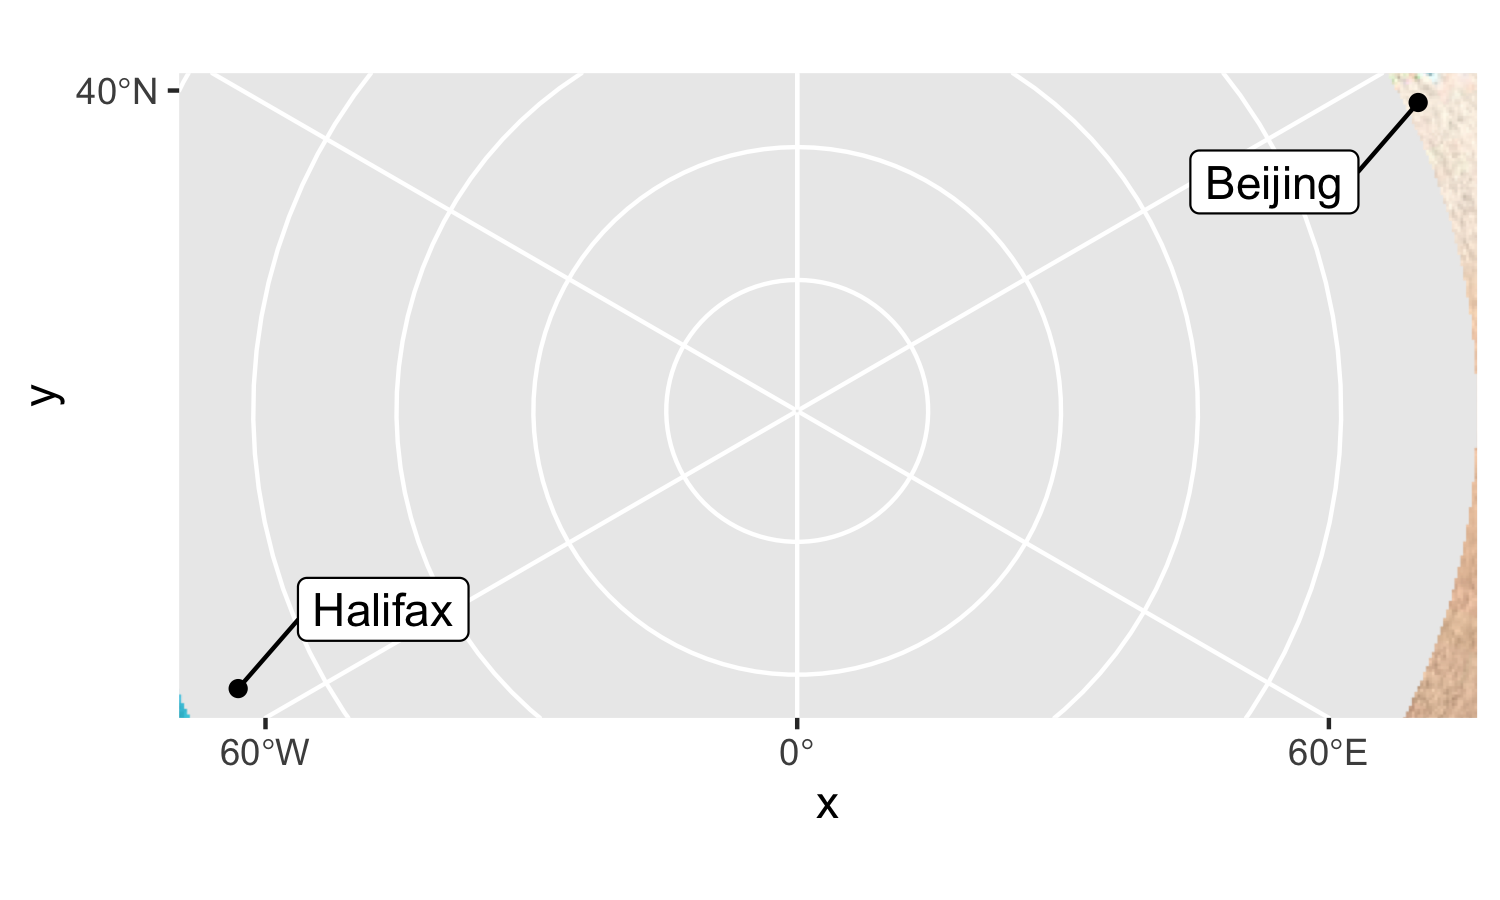
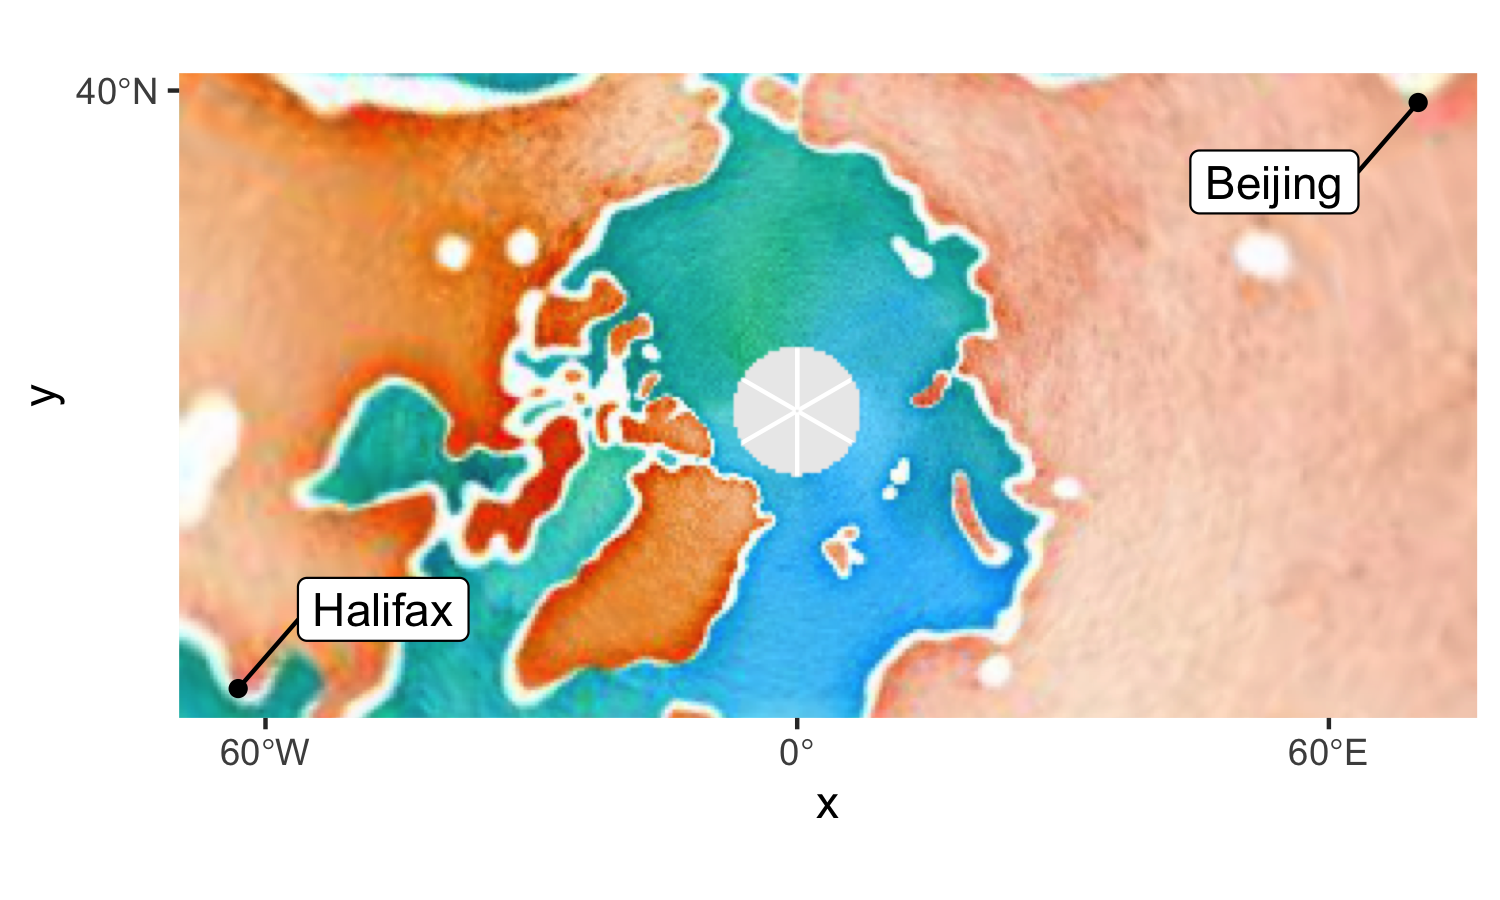
Built site for ggspatial: 1.1.3.9000@4a965f1

diff --git a/dev/articles/ggspatial.html b/dev/articles/ggspatial.html
@@ -157,19 +157,6 @@
   <span class="fu"><a href="https://ggplot2.tidyverse.org/reference/ggsf.html">coord_sf</a></span>(crs = <span class="fl">3995</span>)
 </pre></div>
 <p><img src="ggspatial_files/figure-html/unnamed-chunk-6-1.png" width="750"></p>
-<pre><code>## 
-  |                                                                            
-  |                                                                      |   0%
-  |                                                                            
-  |==============                                                        |  20%
-  |                                                                            
-  |============================                                          |  40%
-  |                                                                            
-  |==========================================                            |  60%
-  |                                                                            
-  |========================================================              |  80%
-  |                                                                            
-  |======================================================================| 100%</code></pre>
 </div>
   </div>
 

diff --git a/dev/reference/layer_spatial.Raster.html b/dev/reference/layer_spatial.Raster.html
@@ -126,7 +126,7 @@ bands as if they were columns, use <a href='https://rdrr.io/pkg/ggspatial/man/df
 <span class='fu'><a href='https://rdrr.io/pkg/ggspatial/man/layer_spatial.html'>layer_spatial</a></span>(
   <span class='kw'>data</span>,
   mapping = <span class='kw'>NULL</span>,
-  interpolate = <span class='fl'>TRUE</span>,
+  interpolate = <span class='kw'>NULL</span>,
   is_annotation = <span class='fl'>FALSE</span>,
   lazy = <span class='fl'>FALSE</span>,
   dpi = <span class='fl'>150</span>,
@@ -134,7 +134,7 @@ bands as if they were columns, use <a href='https://rdrr.io/pkg/ggspatial/man/df
 )
 
 <span class='co'># S3 method for Raster</span>
-<span class='fu'><a href='https://rdrr.io/pkg/ggspatial/man/layer_spatial.html'>annotation_spatial</a></span>(<span class='kw'>data</span>, mapping = <span class='kw'>NULL</span>, interpolate = <span class='fl'>TRUE</span>, <span class='kw'>...</span>)
+<span class='fu'><a href='https://rdrr.io/pkg/ggspatial/man/layer_spatial.html'>annotation_spatial</a></span>(<span class='kw'>data</span>, mapping = <span class='kw'>NULL</span>, interpolate = <span class='kw'>NULL</span>, <span class='kw'>...</span>)
 
 <span class='kw'>StatSpatialRaster</span>
 

diff --git a/dev/reference/layer_spatial.stars.html b/dev/reference/layer_spatial.stars.html
@@ -126,7 +126,7 @@ bands as if they were columns, use <a href='https://rdrr.io/pkg/ggspatial/man/df
 <span class='fu'><a href='https://rdrr.io/pkg/ggspatial/man/layer_spatial.html'>layer_spatial</a></span>(
   <span class='kw'>data</span>,
   mapping = <span class='kw'>NULL</span>,
-  interpolate = <span class='fl'>TRUE</span>,
+  interpolate = <span class='kw'>NULL</span>,
   is_annotation = <span class='fl'>FALSE</span>,
   lazy = <span class='fl'>FALSE</span>,
   dpi = <span class='fl'>150</span>,
